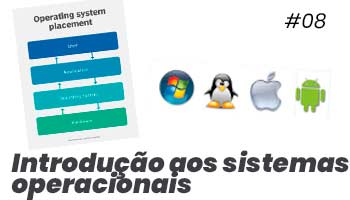
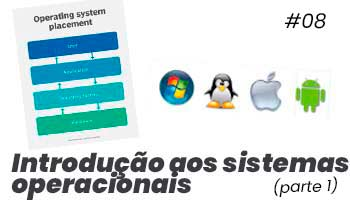
class 9 introComp added

diff --git a/index.js b/index.js
@@ -901,7 +901,7 @@ app.get('/', (req, res) => {
                     "card": {
                         "id": 8,
                         "cardHeader": {
-                            "title": "Introdução aos sistemas operacionais - Aula 8"
+                            "title": "Introdução aos sistemas operacionais (parte 1) - Aula 8"
                         },
                         "cardBody": {
                             "imgSrc": "/public/images/thumbl/introComp/aula8.jpg",
@@ -911,6 +911,23 @@ app.get('/', (req, res) => {
                         },
                         "theaterMode": {
                             "iframe": "JWNvTGgA9O4"
+                        }
+                    }
+                },
+                {
+                    "card": {
+                        "id": 9,
+                        "cardHeader": {
+                            "title": "Introdução aos sistemas operacionais (parte 2) - Aula 9"
+                        },
+                        "cardBody": {
+                            "imgSrc": "/public/images/thumbl/introComp/aula9.jpg",
+                            "imgAlt": "Introdução ao Computador",
+                            "date": "11/05/21",
+                            "aHref": "https://youtu.be/Kulyg9f-LbM"
+                        },
+                        "theaterMode": {
+                            "iframe": "Kulyg9f-LbM"
                         }
                     }
                 }
